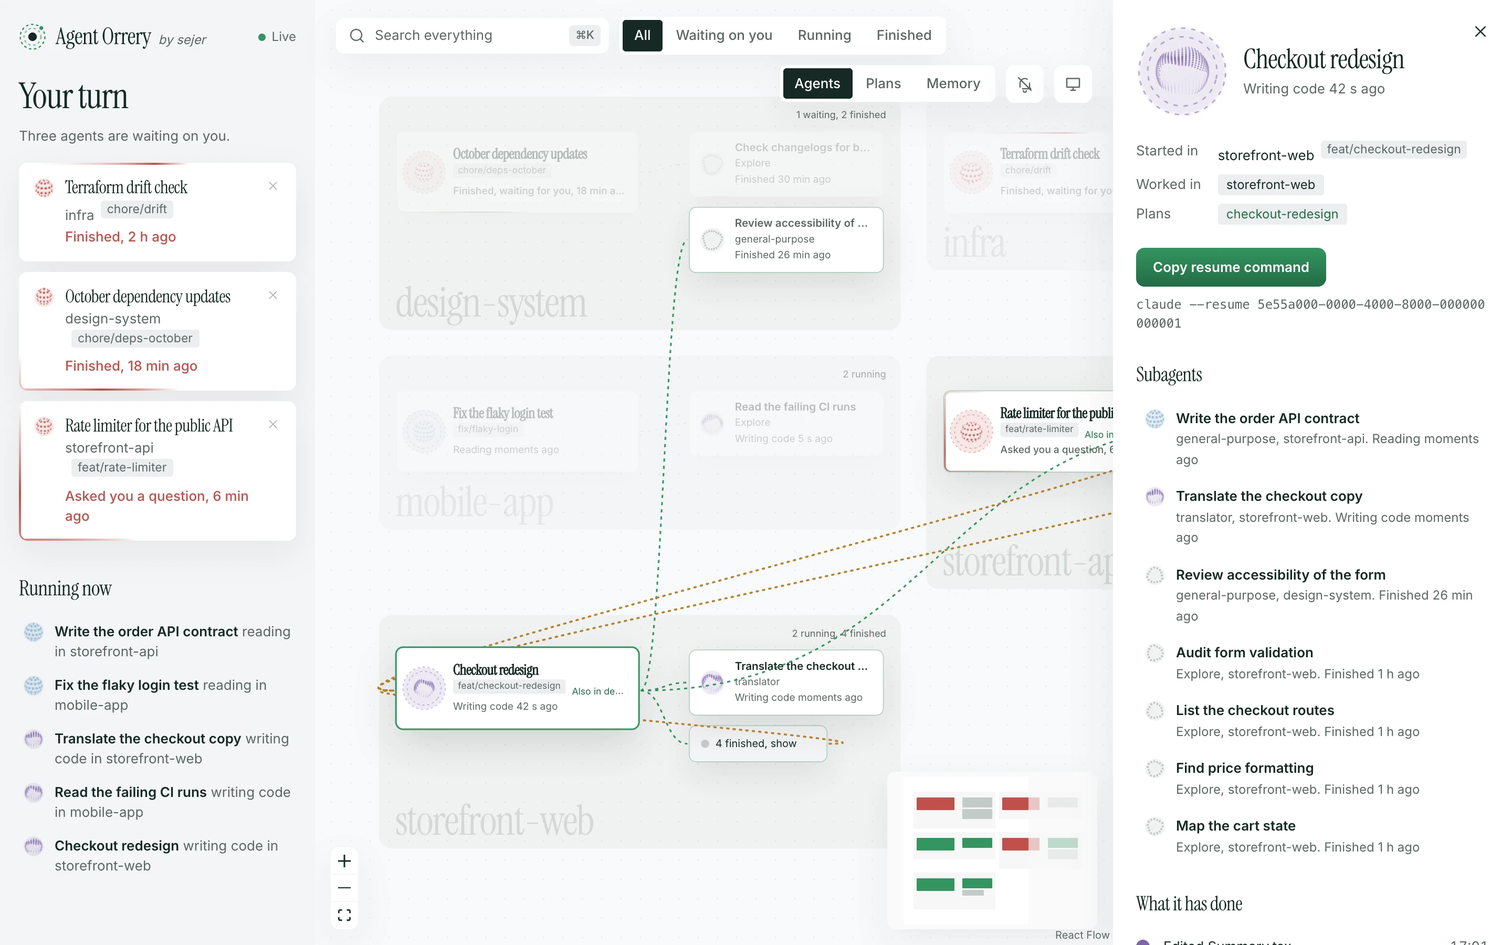
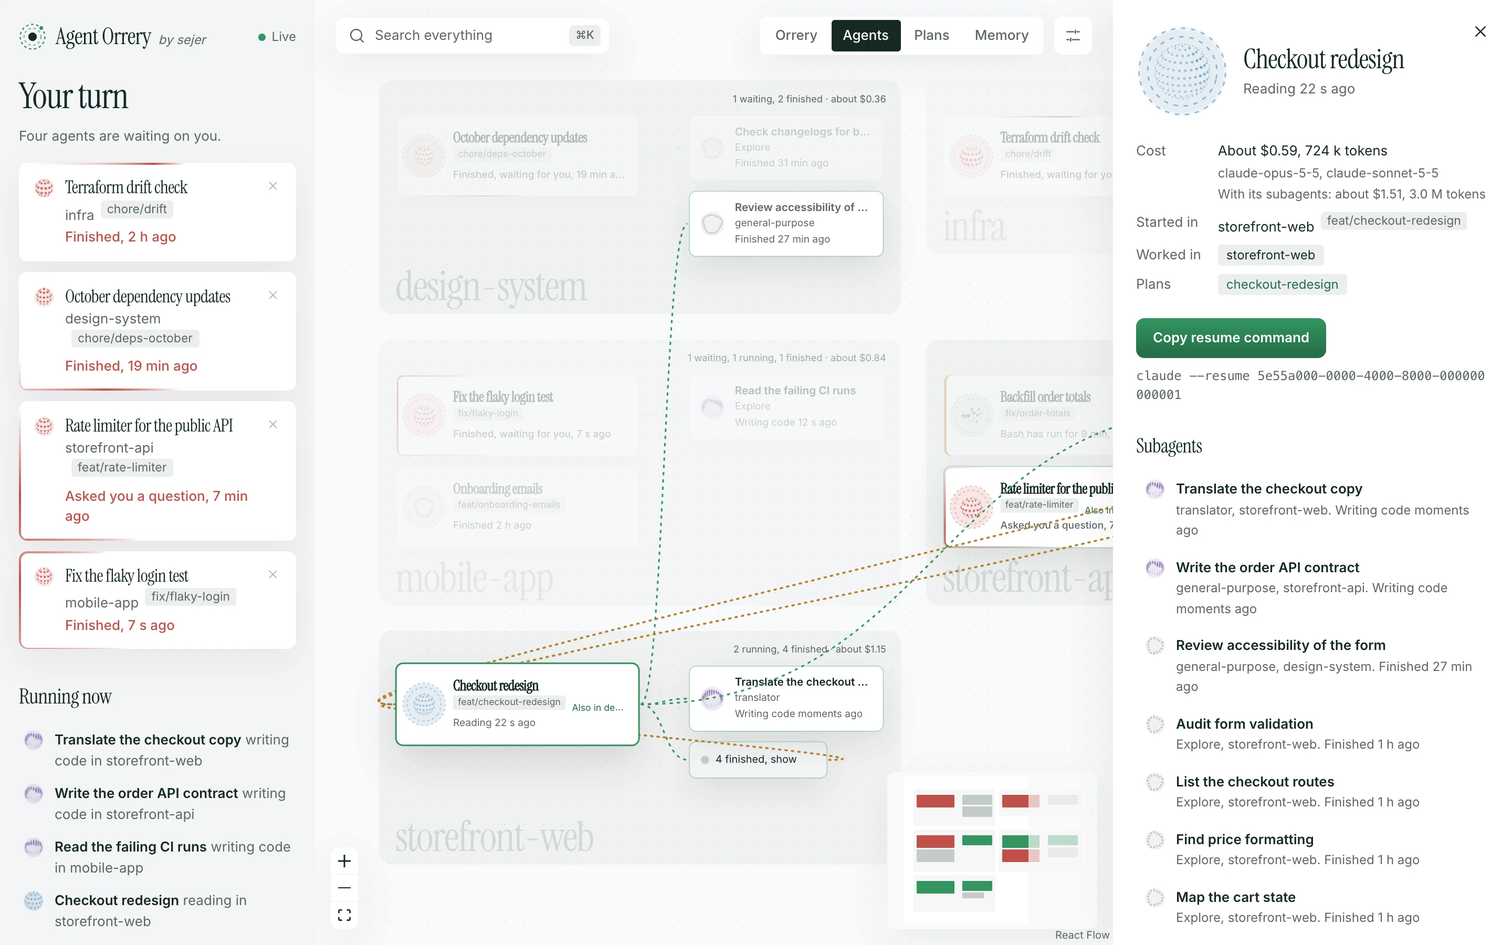
docs: show the orrery, T.Y.C.H.O., replay and the settings menu
The README and site lead with the orrery, list cost, quiet agents,
replay, voice and the menu bar, and fold the extras away. New
screenshots and hero throughout, all from the demo.

diff --git a/docs/index.html b/docs/index.html
@@ -83,7 +83,7 @@
           <source srcset="assets/hero-dark.webp" type="image/webp" media="(prefers-color-scheme: dark)">
           <source srcset="assets/hero.webp" type="image/webp">
           <img class="window__shot" src="assets/hero.png" width="1440" height="900" fetchpriority="high"
-            alt="Agent Orrery on demo data. Five repositories, from storefront-web to infra, each hold their agents as orbs. Three sessions wait in the Your turn list on the left. Selecting the Checkout redesign session lights up its subagents and messages, and opens a drawer with its timeline.">
+            alt="Agent Orrery on demo data. Agents orbit a glowing constellation at the centre in three rings: the sessions waiting on you closest, running agents next, finished ones outside, with a sector for each of five repositories. Three sessions wait in the Your turn list on the left. Selecting an agent lights up its lines and opens a drawer with its cost and timeline.">
         </picture>
       </figure>
       <p class="demo__caption">Made-up sessions, the same ones <code>pnpm demo</code> gives you. <a href="assets/agent-orrery-launch.mp4">Watch the launch video</a>, 25 seconds with sound.</p>
@@ -97,28 +97,40 @@
 
       <div class="feature-list">
         <article class="feature">
+          <h3>The orrery</h3>
+          <p>Your agents in rings around you: whatever waits on you sits closest, running agents next, finished ones on the outside, with a sector for each repository. Or a ring per repository, the ones that need you innermost. The rings turn slowly and steady themselves while you point at an agent.</p>
+        </article>
+        <article class="feature">
           <h3>Your turn</h3>
           <p>Every session that finished or asked you something, oldest first, with how long it has waited. The tab title shows the count. Dismiss one until it does something new.</p>
         </article>
         <article class="feature">
           <h3>Rooms per repository</h3>
-          <p>Each agent sits in the repo its work touches, not the folder its session started in. A session started in storefront-api whose subagents edit storefront-web reaches across into that room.</p>
+          <p>Each agent sits in the repo its work touches, not the folder its session started in. The Agents tab lays them out as a grid of rooms, and a session started in storefront-api whose subagents edit storefront-web reaches across into that room.</p>
         </article>
         <article class="feature">
-          <h3>Focus</h3>
-          <p>Click an agent to light up its parent, its subagents and everyone it messaged, and dim the rest. A drawer shows what it has done, step by step, and a command to resume the session.</p>
+          <h3>Focus, and what it cost</h3>
+          <p>Click an agent to light up its parent, its subagents and everyone it messaged. A drawer shows what it has done, a command to resume it, and an estimate of what it cost from its token counts.</p>
+        </article>
+        <article class="feature">
+          <h3>Quiet agents</h3>
+          <p>A running agent that has gone silent for five minutes is flagged, with the tool call still open. That is how a permission prompt looks from outside, so it may be waiting for your approval.</p>
+        </article>
+        <article class="feature">
+          <h3>Replay</h3>
+          <p>Drag back through the last hours to see who was running, waiting and finished at any moment, or play them back at ten minutes a second.</p>
         </article>
         <article class="feature">
           <h3>Search everything</h3>
-          <p>Press <kbd>⌘</kbd> <kbd>K</kbd> to find agents by name, repo or branch, and plans and memory notes by what they say.</p>
+          <p>Press <kbd>⌘</kbd> <kbd>K</kbd> to find agents by name, repo or branch, and the plans and memory notes Claude has saved by what they say.</p>
         </article>
         <article class="feature">
-          <h3>Notifications</h3>
-          <p>Turn them on and your browser tells you when a session starts waiting on you while you’re in another tab.</p>
+          <h3>Never miss a wait</h3>
+          <p>A browser notification when a session starts waiting on you, a voice that says which one, and on a Mac a menu bar count that opens it in one click.</p>
         </article>
         <article class="feature">
-          <h3>Plans and memory</h3>
-          <p>Read the plans and memory notes Claude has saved, by project. Plans link back to the sessions that wrote them.</p>
+          <h3>Light, dark and T.Y.C.H.O.</h3>
+          <p>Pick a theme in the settings, or follow your system. T.Y.C.H.O., Tracks Your Claude Helpers’ Orbits, is a holographic HUD in amber on black. Clean view hides everything but the map.</p>
         </article>
       </div>
 
@@ -139,9 +151,19 @@
 
       <div class="gallery">
         <figure>
+          <img src="screenshots/tycho.webp" width="1440" height="900" loading="lazy" decoding="async"
+            alt="The orrery in the T.Y.C.H.O. theme: amber rings and glowing orbs on black, with a turning dial around the constellation at the centre.">
+          <figcaption>T.Y.C.H.O., the HUD theme.</figcaption>
+        </figure>
+        <figure>
           <img src="screenshots/focus.webp" width="1440" height="900" loading="lazy" decoding="async"
-            alt="The Checkout redesign session selected. Its subagents and the agents it messaged stay lit while the rest dims, and a drawer lists what it has done with a resume command.">
-          <figcaption>Click an agent to see everything connected to it.</figcaption>
+            alt="The Agents grid with the Checkout redesign session selected. Its subagents and the agents it messaged stay lit while the rest dims, and a drawer shows its cost, what it has done and a resume command.">
+          <figcaption>Agents, the grid of rooms. Click an agent to see everything connected to it.</figcaption>
+        </figure>
+        <figure>
+          <img src="screenshots/replay.webp" width="1440" height="900" loading="lazy" decoding="async"
+            alt="Replay open on the orrery: a slider at the bottom set to an hour and a half ago, with fewer agents and different statuses than now.">
+          <figcaption>Replay the last hours.</figcaption>
         </figure>
         <figure>
           <img src="screenshots/search.webp" width="1440" height="900" loading="lazy" decoding="async"
@@ -154,8 +176,8 @@
           <figcaption>Memory notes, by project.</figcaption>
         </figure>
         <figure>
-          <img src="screenshots/dark.webp" width="1440" height="900" loading="lazy" decoding="async"
-            alt="The dashboard in the dark theme: green-black grounds with the same rooms, orbs and lines.">
+          <img src="screenshots/orrery-dark.webp" width="1440" height="900" loading="lazy" decoding="async"
+            alt="The orrery in the dark theme: green-black ground with the same rings, orbs and lines.">
           <figcaption>Dark, when your system is.</figcaption>
         </figure>
       </div>
@@ -293,12 +315,20 @@ pnpm demo</pre>
           <p>The room is the repository its tools touched most. An agent that only ran shell commands, without paths, stays with its session. In Docker, repositories outside <code>AGENT_ORRERY_CODE_DIR</code> can’t be seen.</p>
         </details>
         <details>
+          <summary>How accurate is the cost?</summary>
+          <p>It’s an estimate: the token counts in the transcripts, priced at Anthropic’s published API rates, with fast mode and long prompts included. On a Claude subscription you’re billed differently, so read it as what the same work would cost on the API.</p>
+        </details>
+        <details>
+          <summary>Does the voice send anything anywhere?</summary>
+          <p>No. It only uses voices installed on your machine, never a network voice, so session titles stay local.</p>
+        </details>
+        <details>
           <summary>Does it work on Linux?</summary>
           <p>Yes. Set <code>AGENT_ORRERY_UID</code>, <code>AGENT_ORRERY_GID</code> and <code>AGENT_ORRERY_CODE_DIR</code> to match your machine.</p>
         </details>
         <details>
           <summary>What’s an orrery?</summary>
-          <p>A clockwork model of the planets, each on its orbit around the sun. Agent Orrery does the same for your agents and the repositories they work in.</p>
+          <p>A clockwork model of the planets, each on its orbit around the sun. In Agent Orrery you’re the sun: your agents orbit you, closer the more they need you.</p>
         </details>
       </div>
     </section>

diff --git a/README.md b/README.md
@@ -20,7 +20,7 @@
 <p align="center">
   <picture>
     <source media="(prefers-color-scheme: dark)" srcset="docs/assets/hero-dark.webp">
-    <img src="docs/assets/hero.webp" alt="Agent Orrery on demo data: selecting a session lights up its subagents and messages, then a search for checkout finds agents and a plan.">
+    <img src="docs/assets/hero.webp" alt="Agent Orrery on demo data: agents orbit you in rings, with the ones waiting on you closest; selecting one lights up its lines and opens its drawer.">
   </picture>
   <br>
   <sub><a href="https://orrery.luissejer.dk/"><strong>orrery.luissejer.dk</strong></a> · <a href="docs/assets/agent-orrery-launch.mp4">Watch the launch video</a> (25 s, with sound)</sub>
@@ -36,20 +36,28 @@ Agent Orrery answers that at a glance. It reads the transcripts Claude Code alre
 
 ## Features
 
+- **The orrery.** The page opens on your agents in rings around you: whatever waits on you sits closest, running agents next, finished ones on the outside, with a sector for each repository. Working across many repositories? Arrange it by repository instead: each one gets a ring of its own, and the ones that need you move inwards. The rings turn slowly, inner ones faster, and steady themselves while you point at an agent. Agents, one tab over, lays the same agents out as a grid of rooms.
 - **Your turn.** Every session that finished or asked you something, oldest first, with how long it has waited. The tab title shows the count. Dismiss one until it does something new.
-- **The orrery.** The page opens on your agents in rings around you: whatever waits on you sits closest, running agents next, finished ones on the outside, with a sector for each repository. The rings turn slowly, inner ones faster, and steady themselves while you point at an agent. Agents, one tab over, lays the same agents out as a grid of rooms. The page remembers which view you were on.
 - **Rooms per repository.** Each agent sits in the repo its work touches, not the folder its session started in. A session started in the API whose subagents edit the web app reaches across into the web app's room.
-- **Live state.** Each agent's orb shows what it's doing now: reading, writing code, running a command, talking to other agents, or waiting on you. Messages between agents travel along the lines as they're sent.
 - **Focus.** Click an agent to light up its parent, its subagents and everyone it messaged, and dim the rest. A drawer shows what it has done, step by step, and a command to resume the session.
-- **Search everything.** Press <kbd>⌘</kbd> <kbd>K</kbd> to find agents by name, repo or branch, and plans and memory notes by what they say.
-- **Notifications.** Turn them on and your browser tells you when a session starts waiting on you while you're in another tab.
 - **Cost.** An estimate of what each agent, session and room has cost, worked out in your browser from the token counts and Anthropic's published prices. Models it has no price for show tokens only.
-- **Quiet agents.** An agent that is running but has been silent for five minutes is flagged, and if a tool call is still open it says which one: that is how a permission prompt looks from outside, so it may be waiting for your approval.
-- **Replay.** Press Replay and drag back through the last hours (the same window as `AGENT_ORRERY_WINDOW_HOURS`) to see who was running, waiting and finished at any moment. Notifications stay off while you replay.
-- **Voice.** Turn on the speaker and the page says out loud which session is waiting on you, using the best British voice on your machine. On a Mac, add a better one in System Settings → Accessibility → Spoken Content → System voice → Manage voices (a Premium British voice sounds most natural).
-- **Plans and memory.** Read the plans and memory notes Claude has saved, by project.
+- **Replay.** Turn on Replay in the settings and drag back through the last hours (the same window as `AGENT_ORRERY_WINDOW_HOURS`) to see who was running, waiting and finished at any moment. Notifications stay off while you replay.
 - **Light, dark and T.Y.C.H.O.** Follows your system, or pick one. T.Y.C.H.O. (Tracks Your Claude Helpers' Orbits) is a holographic HUD in amber on black.
-- **Quiet by design.** It only reads files, never writes them, and nothing leaves your machine.
+- **A clean dashboard.** Search and the views sit on top; filters, the arrangement, themes, replay, notifications and voice are in one settings menu. Clean view hides the side panel, minimap and zoom too, for a screen you glance at. The page remembers all of it.
+- **Read-only and local.** It only reads files, never writes them, and nothing leaves your machine.
+
+<details>
+<summary><strong>And more:</strong> live state, search everything, notifications, menu bar, quiet agents, voice, plans and memory</summary>
+
+- **Live state.** Each agent's orb shows what it's doing now: reading, writing code, running a command, talking to other agents, or waiting on you. Messages between agents travel along the lines as they're sent.
+- **Search everything.** Press <kbd>⌘</kbd> <kbd>K</kbd> to find agents by name, repo or branch, and plans and memory notes by what they say.
+- **Notifications.** Turn them on in the settings and your browser tells you when a session starts waiting on you while you're in another tab.
+- **Menu bar.** On a Mac, a small [menu bar app](#menu-bar-companion) shows how many sessions are waiting on you, and opens the one you pick.
+- **Quiet agents.** An agent that is running but has been silent for five minutes is flagged, and if a tool call is still open it says which one: that is how a permission prompt looks from outside, so it may be waiting for your approval.
+- **Voice.** Turn on Voice in the settings and the page says out loud which session is waiting on you, using the best British voice on your machine. On a Mac, add a better one in System Settings → Accessibility → Spoken Content → System voice → Manage voices (a Premium British voice sounds most natural).
+- **Plans and memory.** Read the plans and memory notes Claude has saved, by project.
+
+</details>
 
 ### What the orbs mean
 
@@ -64,22 +72,46 @@ Agent Orrery answers that at a glance. It reads the transcripts Claude Code alre
 
 <table>
   <tr>
-    <td width="50%"><img src="docs/screenshots/focus.webp" alt="One session selected: its subagents and messages light up, everything else dims, and a drawer lists what it has done."></td>
-    <td width="50%"><img src="docs/screenshots/plans.webp" alt="The Plans view: a list of saved plans beside the selected plan, rendered as a document."></td>
+    <td width="50%"><img src="docs/screenshots/tycho.webp" alt="The orrery in the T.Y.C.H.O. theme: amber rings and glowing orbs on black, with a turning dial around the constellation at the centre."></td>
+    <td width="50%"><img src="docs/screenshots/focus.webp" alt="The Agents grid with one session selected: its subagents and messages light up, everything else dims, and a drawer shows its cost and what it has done."></td>
   </tr>
   <tr>
-    <td><sub>Click an agent to see everything connected to it.</sub></td>
-    <td><sub>Plans, linked to the sessions that wrote them.</sub></td>
+    <td><sub>T.Y.C.H.O., the HUD theme.</sub></td>
+    <td><sub>Agents, the grid of rooms. Click an agent to see everything connected to it, and what it cost.</sub></td>
   </tr>
+</table>
+
+<details>
+<summary><strong>More screenshots:</strong> replay, search, arranged by repository, the settings, plans and the dark theme</summary>
+
+<table>
   <tr>
+    <td width="50%"><img src="docs/screenshots/replay.webp" alt="Replay open on the orrery: a slider at the bottom set to an hour and a half ago, with fewer agents and different statuses than now."></td>
     <td width="50%"><img src="docs/screenshots/search.webp" alt="The search window open over the dashboard, listing agents, plans and memory notes that match checkout, with the matches highlighted."></td>
-    <td width="50%"><img src="docs/screenshots/dark.webp" alt="The dashboard in the dark theme: green-black grounds with the same rooms, orbs and lines."></td>
   </tr>
   <tr>
+    <td><sub>Replay the last hours.</sub></td>
     <td><sub>Search agents, plans and memory with <kbd>⌘</kbd> <kbd>K</kbd>.</sub></td>
+  </tr>
+  <tr>
+    <td width="50%"><img src="docs/screenshots/orrery-repo.webp" alt="The orrery arranged by repository: a ring per repository, named in its gap, with the repositories that have sessions waiting on you innermost."></td>
+    <td width="50%"><img src="docs/screenshots/settings.webp" alt="The settings menu open over the orrery: show, arrange the orrery, theme, and switches for replay, notifications, voice and clean view."></td>
+  </tr>
+  <tr>
+    <td><sub>Or a ring per repository, the ones that need you innermost.</sub></td>
+    <td><sub>Everything else lives in one settings menu.</sub></td>
+  </tr>
+  <tr>
+    <td width="50%"><img src="docs/screenshots/plans.webp" alt="The Plans view: a list of saved plans beside the selected plan, rendered as a document."></td>
+    <td width="50%"><img src="docs/screenshots/orrery-dark.webp" alt="The orrery in the dark theme: green-black ground with the same rings, orbs and lines."></td>
+  </tr>
+  <tr>
+    <td><sub>Plans, linked to the sessions that wrote them.</sub></td>
     <td><sub>Dark, when your system is.</sub></td>
   </tr>
 </table>
+
+</details>
 
 ## Get started
 
@@ -102,7 +134,8 @@ docker compose up -d --build
 
 Open http://127.0.0.1:4777. The container comes back after a crash and whenever Docker starts. To have it after a reboot, turn on **Start Docker Desktop when you sign in** in Docker Desktop's settings.
 
-### From source
+<details>
+<summary><strong>From source</strong></summary>
 
 Needs Node 24 and pnpm (`corepack enable`).
 
@@ -112,12 +145,17 @@ pnpm build
 pnpm start        # http://127.0.0.1:4777
 ```
 
-### Just looking
+</details>
+
+<details>
+<summary><strong>Just looking: the demo, with made-up sessions</strong></summary>
 
 ```bash
 pnpm install
 pnpm demo         # made-up sessions on http://127.0.0.1:4780
 ```
+
+</details>
 
 ## Menu bar companion
 
@@ -127,6 +165,9 @@ On a Mac, a small menu bar app shows how many sessions are waiting on you and op
 
 Set these in your shell, or in a `.env` file next to `compose.yaml`.
 
+<details>
+<summary><strong>All settings:</strong> port, history window, folders, user</summary>
+
 | Variable | Default | What it does |
 |---|---|---|
 | `AGENT_ORRERY_CODE_DIR` | `~/Documents/GitHub` | Folder holding your repositories, shared read-only with the container so it can tell which repo an agent works in (Docker only) |
@@ -135,6 +176,8 @@ Set these in your shell, or in a `.env` file next to `compose.yaml`.
 | `AGENT_ORRERY_WINDOW_HOURS` | `6` | How far back to show sessions and agents |
 | `AGENT_ORRERY_WAITING_HOURS` | `24` | How long a session waiting on you stays listed |
 | `AGENT_ORRERY_CLAUDE_DIR` | `~/.claude` | Where Claude Code keeps its files (from source only) |
+
+</details>
 
 ## How it works
 
@@ -166,15 +209,54 @@ Found a problem? See [SECURITY.md](SECURITY.md).
 
 ## FAQ
 
-**Does it work with several machines?** No. It reads the Claude Code files on the machine it runs on.
+<details>
+<summary><strong>Does it work with several machines?</strong></summary>
 
-**Do notifications work when the tab is closed?** No. They come from the dashboard tab, so keep it open, in the background, or pinned.
+No. It reads the Claude Code files on the machine it runs on.
 
-**Does it slow Claude Code down?** No. It reads files Claude Code writes anyway, and adds no hooks.
+</details>
 
-**Why is an agent in the wrong room?** The room is the repository its tools touched most. An agent that only ran shell commands, without paths, stays with its session. In Docker, repositories outside `AGENT_ORRERY_CODE_DIR` can't be seen.
+<details>
+<summary><strong>Do notifications work when the tab is closed?</strong></summary>
 
-**Does it work on Linux?** Yes. Set `AGENT_ORRERY_UID`, `AGENT_ORRERY_GID` and `AGENT_ORRERY_CODE_DIR` to match your machine.
+No. They come from the dashboard tab, so keep it open, in the background, or pinned.
+
+</details>
+
+<details>
+<summary><strong>Does it slow Claude Code down?</strong></summary>
+
+No. It reads files Claude Code writes anyway, and adds no hooks.
+
+</details>
+
+<details>
+<summary><strong>Why is an agent in the wrong room?</strong></summary>
+
+The room is the repository its tools touched most. An agent that only ran shell commands, without paths, stays with its session. In Docker, repositories outside `AGENT_ORRERY_CODE_DIR` can't be seen.
+
+</details>
+
+<details>
+<summary><strong>How accurate is the cost?</strong></summary>
+
+It's an estimate: the token counts in the transcripts, priced at Anthropic's published API rates, with fast mode and long prompts included. On a Claude subscription you're billed differently, so read it as what the same work would cost on the API.
+
+</details>
+
+<details>
+<summary><strong>Does the voice send anything anywhere?</strong></summary>
+
+No. It only uses voices installed on your machine, never a network voice, so session titles stay local.
+
+</details>
+
+<details>
+<summary><strong>Does it work on Linux?</strong></summary>
+
+Yes. Set `AGENT_ORRERY_UID`, `AGENT_ORRERY_GID` and `AGENT_ORRERY_CODE_DIR` to match your machine.
+
+</details>
 
 ## Contributing
 

diff --git a/CHANGELOG.md b/CHANGELOG.md
@@ -10,14 +10,16 @@ All notable changes to Agent Orrery are documented here. The format is based on
 
 - The Orrery view: your agents in rings around you, closest when they're waiting on you, then running, then finished, with a sector for each repository. The rings turn slowly like an orrery's and steady themselves while you point at an agent; agents glide between rings as their status changes, and finished ones fold into a pile. It's the view the page opens on; Agents, the grid of rooms, is one tab over.
 - The page remembers which view you were on (Agents, Orrery, Plans or Memory) when you reload.
+- Arrange the orrery by repository: each repository gets a ring of its own, the ones that need you innermost, so many repositories add rings instead of thinning sectors.
+- One settings menu holds the filters, the orrery's arrangement, the theme, replay, notifications and voice, leaving the toolbar with search and the views. Clean view hides the side panel, minimap and zoom as well.
 - T.Y.C.H.O., a fourth theme: a holographic HUD in amber and orange on black, with a turning dial around you in the Orrery view.
-- Voice: turn on the speaker and the page says out loud when a session starts waiting on you, using a voice on your machine.
+- Voice: turn it on in the settings and the page says out loud when a session starts waiting on you, using a voice on your machine.
 - Cost: an estimate for each agent, session (with its subagents) and room, and one line in the inbox for everything in view. Models without a known price show tokens only.
 - Quiet agents: a running agent that has been silent for five minutes is flagged amber and listed under Quiet, and says which tool call is still open, since that may be a permission prompt. An agent with an open tool call now counts as running for up to two hours instead of 15 minutes.
 - Replay: scrub back through the last hours, or play them at about ten minutes a second, with a banner and notifications paused. The server keeps a short in-memory history for it and serves `/api/replay` and `/api/window`.
 - A macOS menu bar companion in `menubar/` that counts the sessions waiting on you and opens the one you pick. It reads the new `/api/waiting` route, and the page now selects an agent from a `#agent=<id>` link.
 - Search everything with ⌘K (Ctrl K elsewhere): agents by name, repo or branch, and plans and memory notes by their text, with the matches highlighted. Pick a result to jump straight to it.
-- Notifications: turn them on with the bell, and your browser tells you when a session starts waiting on you while you're in another tab. Click one to jump to the session.
+- Notifications: turn them on in the settings, and your browser tells you when a session starts waiting on you while you're in another tab. Click one to jump to the session.
 - A dark theme that follows your system, and a button to pick light or dark instead.
 - Hide finished: a room you've opened can fold its finished agents back into a pile.
 - The drawer lists a session's subagents, so you can jump to any of them, even when they're folded away.
